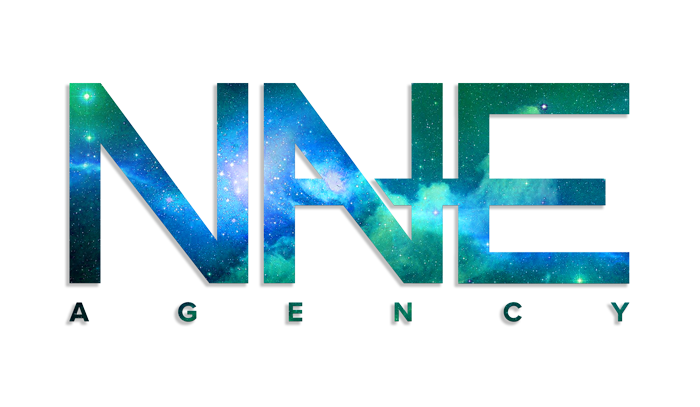
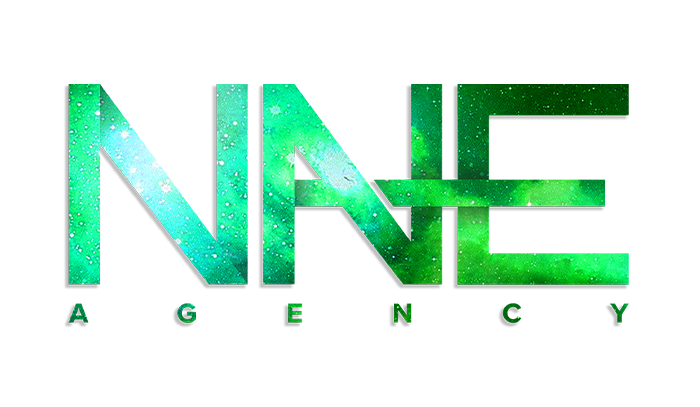
edit

diff --git a/marcas/nave.html b/marcas/nave.html
@@ -63,10 +63,25 @@
 	<h2>Variações de Marca</h2>
 </div>
 <div>
-		<img class="img-galery" src="/marcas/nave/Marcas/nave-roxo.png" alt="NAVE Roxo">
-		<img class="img-galery" src="/marcas/nave/Marcas/nave-vermelho.png" alt="NAVE Vermelho">
-		<img class="img-galery" src="/marcas/nave/Marcas/nave-verde.png" alt="NAVE Azul">
 		<img class="img-galery" src="/marcas/nave/Marcas/nave-preto.png" alt="NAVE Preto">
+		<img class="img-galery" src="/marcas/nave/Marcas/nave-roxo.png" alt="NAVE Roxo">
+		<img class="img-galery" src="/marcas/nave/Marcas/nave-rosa.png" alt="NAVE Rosa">
+		<img class="img-galery" src="/marcas/nave/Marcas/nave-vermelho.png" alt="NAVE Azul">
+		<img class="img-galery" src="/marcas/nave/Marcas/nave-amarelo.png" alt="NAVE Amarelo">
+		<img class="img-galery" src="/marcas/nave/Marcas/nave-verde.png" alt="NAVE Verde">
+		<img class="img-galery" src="/marcas/nave/Marcas/nave-ciano.png" alt="NAVE Ciano">
+		<img class="img-galery" src="/marcas/nave/Marcas/nave-azul.png" alt="NAVE Azul">
+
+</div>
+<div>
+		<img class="img-galery" src="/marcas/nave/Marcas/m-01.png" alt="NAVE - Avatar">
+		<img class="img-galery" src="/marcas/nave/Marcas/m-02.png" alt="NAVE - Avatar">
+		<img class="img-galery" src="/marcas/nave/Marcas/m-03.png" alt="NAVE - Avatar">
+		<img class="img-galery" src="/marcas/nave/Marcas/m-04.png" alt="NAVE - Avatar">
+		<img class="img-galery" src="/marcas/nave/Marcas/m-05.png" alt="NAVE - Avatar">
+		<img class="img-galery" src="/marcas/nave/Marcas/m-06.png" alt="NAVE - Avatar">
+		<img class="img-galery" src="/marcas/nave/Marcas/m-07.png" alt="NAVE - Avatar">
+		<img class="img-galery" src="/marcas/nave/Marcas/m-08.png" alt="NAVE - Avatar">
 </div>
 	
 	<div>
@@ -152,7 +167,7 @@
 	</div>
 	
 	<div> <!-- Link Externo -->
-		<a href="https://nave.agency/" class="button" target="_blank">NAVE.Agency</a>
+		<a href="https://www.instagram.com/naveagc/" class="button" target="_blank">NAVE.Agency</a>
 	</div>
 
 

diff --git a/ilustracoes/fanarts.html b/ilustracoes/fanarts.html
@@ -85,13 +85,14 @@
 		<img class="img-border" src="/ilustracoes/thumbs/fanarts/pokecember-2017-cards.jpg" alt="Pokécember - Cartas (2017)">
 		</a>
 		
+		<a class="gallery-a" href="/ilustracoes/fanarts/finished/Nilah-.jpg" title="Nilah Nilah (2024)">
+		<img class="img-border" src="/ilustracoes/fanarts/finished/Nilah-.jpg" alt="Nilah Nilah (2024)">
+		</a>
+		
 		<a class="gallery-a" href="/ilustracoes/fanarts/finished/pokecember-2018.jpg" title="Pokécember (2018)">
 		<img class="img-border" src="/ilustracoes/thumbs/fanarts/pokecember-2018.jpg" alt="Pokécember (2018)">
 		</a>
-		
-		<a class="gallery-a" href="#" title="#">
-		<img src="/promocional/thumbnails/BLANK-yt-1.png" alt="#">
-		</a>
+	
 
 	</div>
 </div>
@@ -118,6 +119,8 @@
 		<a class="gallery-a" href="/ilustracoes/fanarts/sketches/six-fanarts.jpg" title="Six Fanarts Challenge"><img class="item-image" src="/ilustracoes/thumbs/fanarts/six-fanarts.jpg" alt="Six Fanarts Challenge"></a>
 
 		<a class="gallery-a" href="/ilustracoes/fanarts/sketches/amaura-frost-rotom.jpg" title="Um dia quente"><img class="item-image" src="/ilustracoes/thumbs/fanarts/amaura-frost-rotom.jpg" alt="Um dia quente"></a>
+		
+		<a class="gallery-a" href="/ilustracoes/fanarts/sketches/Zilean-Sup.jpg" title="Um dia quente"><img class="item-image" src="/ilustracoes/fanarts/sketches/Zilean-Sup.jpg" alt="Zilean... Sup :)"></a>
 		
 		<a class="gallery-a" href="/ilustracoes/fanarts/sketches/Miki.jpg" title="Miki (Vocaloid)"><img class="item-image" src="/ilustracoes/thumbs/fanarts/Miki.jpg" alt="Miki (Vocaloid)"></a>
 	

diff --git a/promocional.html b/promocional.html
@@ -82,13 +82,11 @@
 		   
 	<a class="gallery-a" href="/Promocional/pecas/oscar-da-gracinha.jpg" title="Convite temático para Aniversário"><img src="/Promocional/pecas/oscar-da-gracinha.jpg" alt="Convite temático para Aniversário"></a>
 		 
-	<a class="gallery-a" href="Promocional/pecas/cartaz-desafio-extreme-rainbow-six.jpg" title="Cartaz Raibow Six - Desafio Extreme"><img src="Promocional/pecas/cartaz-desafio-extreme-rainbow-six.jpg" alt="Cartaz Raibow Six - Desafio Extreme"></a>
-		 
 	<a class="gallery-a" href="/Promocional/pecas/xou-do-carson.jpg" title="Convite temático para Aniversário"><img src="/Promocional/pecas/xou-do-carson.jpg" alt="Convite temático para Aniversário"></a>
 
 	<a class="gallery-a" href="/Promocional/pecas/Panfleto-Noite-Gay.jpg" title="Panfleto do site Noite Gay"><img src="/Promocional/pecas/Panfleto-Noite-Gay.jpg" alt="Panfleto do site Noite Gay"></a>	
 		
-	<a class="gallery-a" href="/marcas/lolitas/material-promocional/Flyer.jpg" title="Panfleto do site Noite Gay"><img src="/marcas/lolitas/material-promocional/Flyer.jpg" alt="Panfleto do site Noite Gay"></a>	
+	<a class="gallery-a" href="/marcas/lolitas/material-promocional/Flyer.jpg" title="Panfleto do site Noite Gay"><img src="/marcas/lolitas/material-promocional/Flyer.jpg" alt="Panfleto da loja Lolitas"></a>	
 	
 	<a class="gallery-a" href="/Promocional/pecas/Tri-Fold-Copa.jpg" title="Folder Chaves da Copa do Mundo 2014"><img src="/Promocional/pecas/Tri-Fold-Copa.jpg" alt="Folder Chaves da Copa do Mundo 2014"></a>
 		

diff --git a/marcas.html b/marcas.html
@@ -115,12 +115,7 @@
 		
 	<a class="img-menu" href="#">
 		<img alt="ImaginE" src="marcas/outras/ImaginE.svg" class="img-bottom">
-		<img alt="ImaginE" src="marcas/outras/ImaginE C.svg" class="img-top"></a>
-		
-	<a class="img-menu" href="#">
-		<img alt="Manavic" src="/marcas/outras/CLUE Design.svg" class="img-bottom">
-		<img alt="Manavic" src="/marcas/outras/CLUE Design-c.svg" class="img-top"></a>
-	
+		<img alt="ImaginE" src="marcas/outras/ImaginE C.svg" class="img-top"></a>	
 		
 	<a class="img-menu" href="#">
 		<img alt="GS-Tech" src="/marcas/outras/GS-Tech.svg" class="img-bottom">
